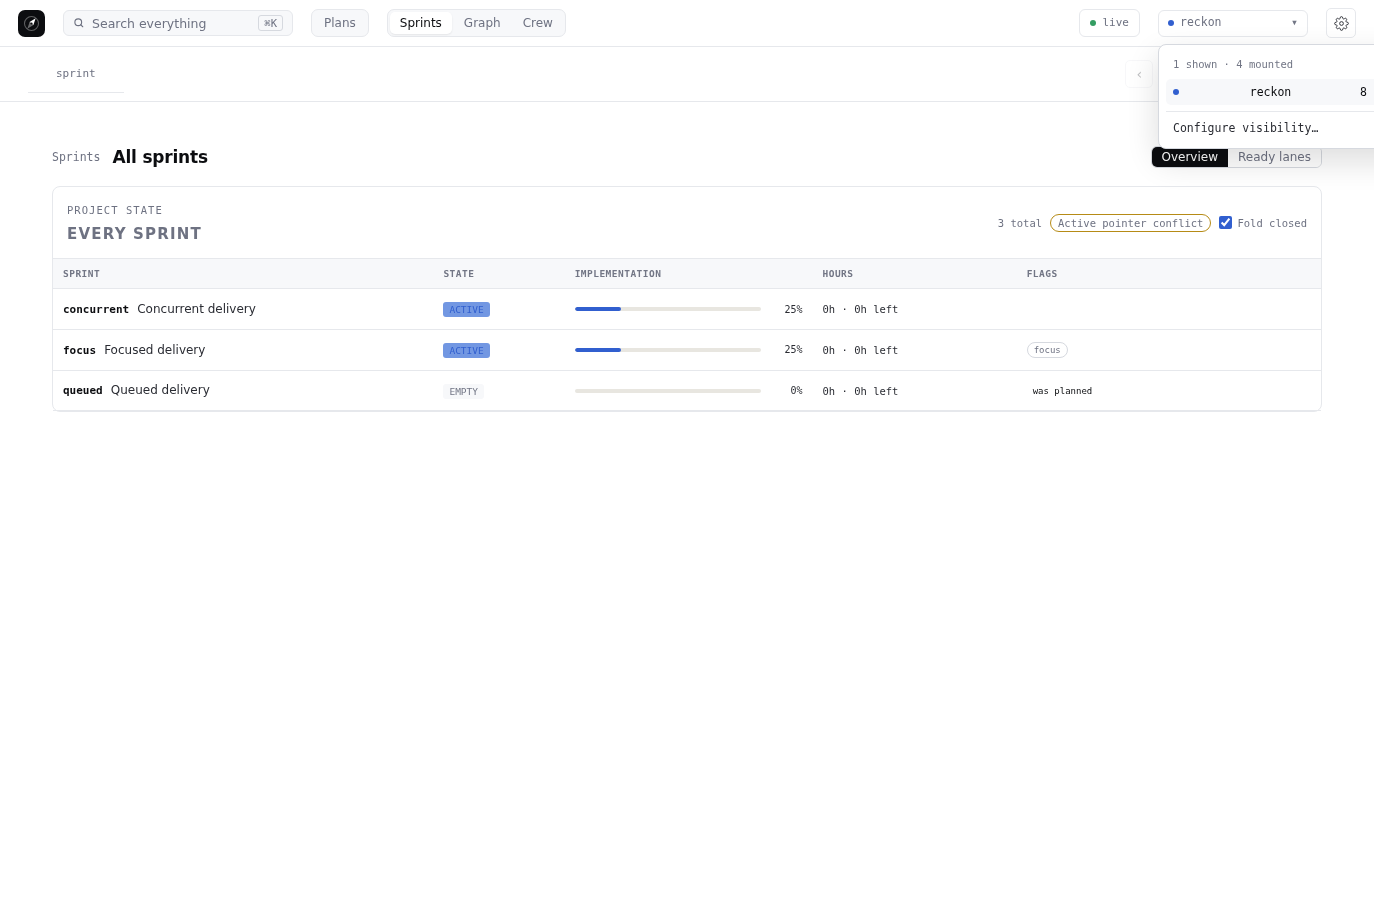
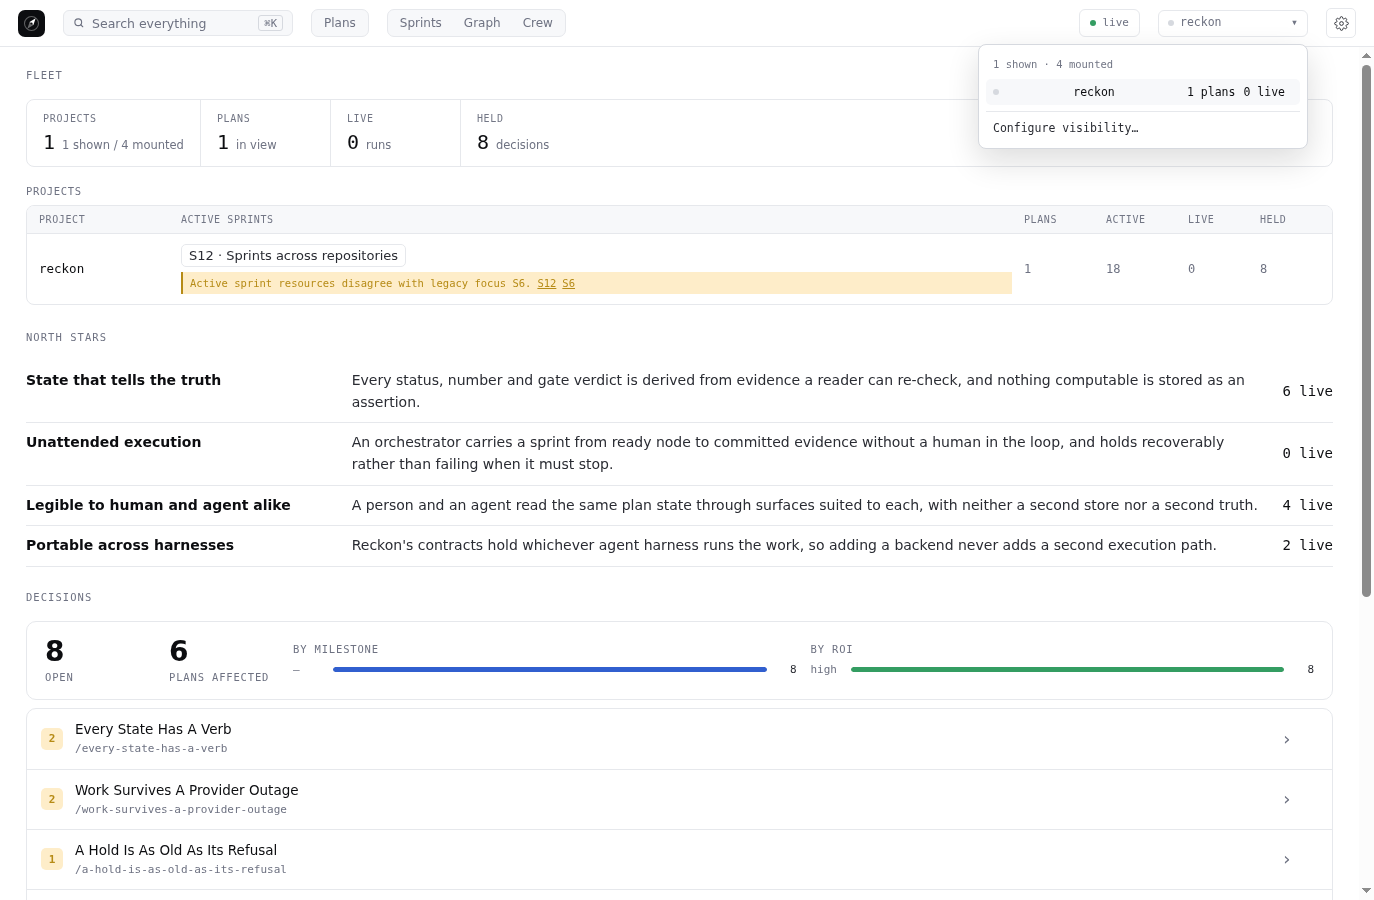
fix(ui): keep the project picker inside the viewport
Anchor the dropdown to the selector's right edge and cover its rendered geometry at both publication widths. Refresh the open-picker captures so all four panel borders and the trailing row text remain visible.

diff --git a/docs/ui/topbar.css b/docs/ui/topbar.css
@@ -175,7 +175,7 @@
 .r-project-menu {
   position: absolute;
   top: calc(100% + 7px);
-  left: 0;
+  right: 0;
   width: 330px;
   padding: 7px;
   border: var(--hairline-2);

diff --git a/tests/test_spa_shell_geometry.py b/tests/test_spa_shell_geometry.py
@@ -1,19 +1,37 @@
 from __future__ import annotations
 
 import re
+from datetime import UTC, datetime
 from pathlib import Path
 
 import pytest
 
+from reckon.serve import discover_plans
 from tests.spa_browser_harness import (
     BrowserProbeError,
+    file_spa,
     installed_browser,
+    installed_browser_or_skip,
     run_browser_probe,
     served_spa,
 )
 
 REPO_ROOT = Path(__file__).parents[1]
 UI_ROOT = REPO_ROOT / "docs" / "ui"
+
+
+def _composed_picker_state() -> dict[str, object]:
+    state = discover_plans(REPO_ROOT / "docs", "reckon", REPO_ROOT / "docs" / "state")
+    inventory = state.get("inventory", [])
+    loaded_at = datetime.now(UTC)
+    return {
+        **state,
+        "today": loaded_at.date().isoformat(),
+        "project": "reckon",
+        "projects": [{"project": "reckon", "plans_count": len(inventory)}],
+        "loaded_at": loaded_at.isoformat(),
+        "plans": {item["slug"]: item for item in inventory},
+    }
 
 
 def _declarations(source: str, selector: str) -> dict[str, str]:
@@ -131,6 +149,94 @@ def test_rendered_topbar_children_follow_the_canvas_order(
     assert positions == sorted(positions)
     assert "Overview" not in result["text"]
     assert "reckon" not in result["text"]
+
+
+@pytest.mark.parametrize("viewport_width", [1374, 1920])
+def test_open_project_picker_stays_inside_the_viewport(
+    tmp_path: Path, viewport_width: int
+) -> None:
+    browser = installed_browser_or_skip()
+    preload_expression = """{
+      const nativeFetch = window.fetch.bind(window);
+      const jsonResponse = payload => Promise.resolve(new Response(
+        JSON.stringify(payload),
+        { status: 200, headers: { 'Content-Type': 'application/json' } }
+      ));
+      window.fetch = (resource, options) => {
+        const url = String(resource);
+        if (url.endsWith('/_projects/index.json')) {
+          return jsonResponse({
+            projects: [
+              { project: 'reckon', data: { plans: [{ slug: 'viewport-proof' }] } },
+              { project: 'alpha', data: { plans: [{ slug: 'alpha-proof' }] } },
+              {
+                project: 'long-project-name',
+                data: { plans: [{ slug: 'long-name-proof' }] }
+              }
+            ]
+          });
+        }
+        if (url.endsWith('/_discover/reckon')) {
+          return jsonResponse({ inventory: [{ slug: 'viewport-proof' }] });
+        }
+        if (url.endsWith('/crew')) return jsonResponse({ runs: [] });
+        return nativeFetch(resource, options);
+      };
+    }"""
+    expression = """(() => {
+      const panel = document.querySelector('.r-project-menu');
+      const panelRect = panel.getBoundingClientRect();
+      const rows = [...panel.querySelectorAll(':scope > button:not(.r-project-configure)')];
+      const textRect = node => {
+        const range = document.createRange();
+        range.selectNodeContents(node);
+        const rect = range.getBoundingClientRect();
+        range.detach();
+        return { left: rect.left, right: rect.right };
+      };
+      const rightmostTextByRow = rows.map(row => {
+        const walker = document.createTreeWalker(row, NodeFilter.SHOW_TEXT);
+        const rectangles = [];
+        let node;
+        while ((node = walker.nextNode())) {
+          if (node.textContent.trim()) rectangles.push(textRect(node));
+        }
+        return rectangles.reduce((rightmost, rect) => (
+          !rightmost || rect.right > rightmost.right ? rect : rightmost
+        ), null);
+      });
+      return {
+        viewportWidth: innerWidth,
+        panel: { left: panelRect.left, right: panelRect.right },
+        rowCount: rows.length,
+        rightmostTextByRow,
+      };
+    })()"""
+
+    with file_spa(tmp_path, browser, _composed_picker_state(), route="#cockpit") as spa:
+        result = spa.run_probe(
+            expression,
+            viewport=(viewport_width, 900),
+            ready_expression=(
+                "Boolean(document.querySelector("
+                "'.r-project-menu > button:not(.r-project-configure)'))"
+            ),
+            preload_expression=preload_expression,
+            prepare_expression=(
+                "document.querySelector('.r-project-manage > summary').click()"
+            ),
+        )
+
+    panel = result["panel"]
+    assert result["viewportWidth"] == viewport_width
+    assert panel["left"] >= 0
+    assert panel["right"] <= result["viewportWidth"]
+    assert panel["right"] < result["viewportWidth"]
+    assert result["rowCount"] == 3
+    assert all(
+        text_rect["left"] >= panel["left"] and text_rect["right"] <= panel["right"]
+        for text_rect in result["rightmostTextByRow"]
+    )
 
 
 def test_shell_styles_do_not_carry_version_label_comments():
